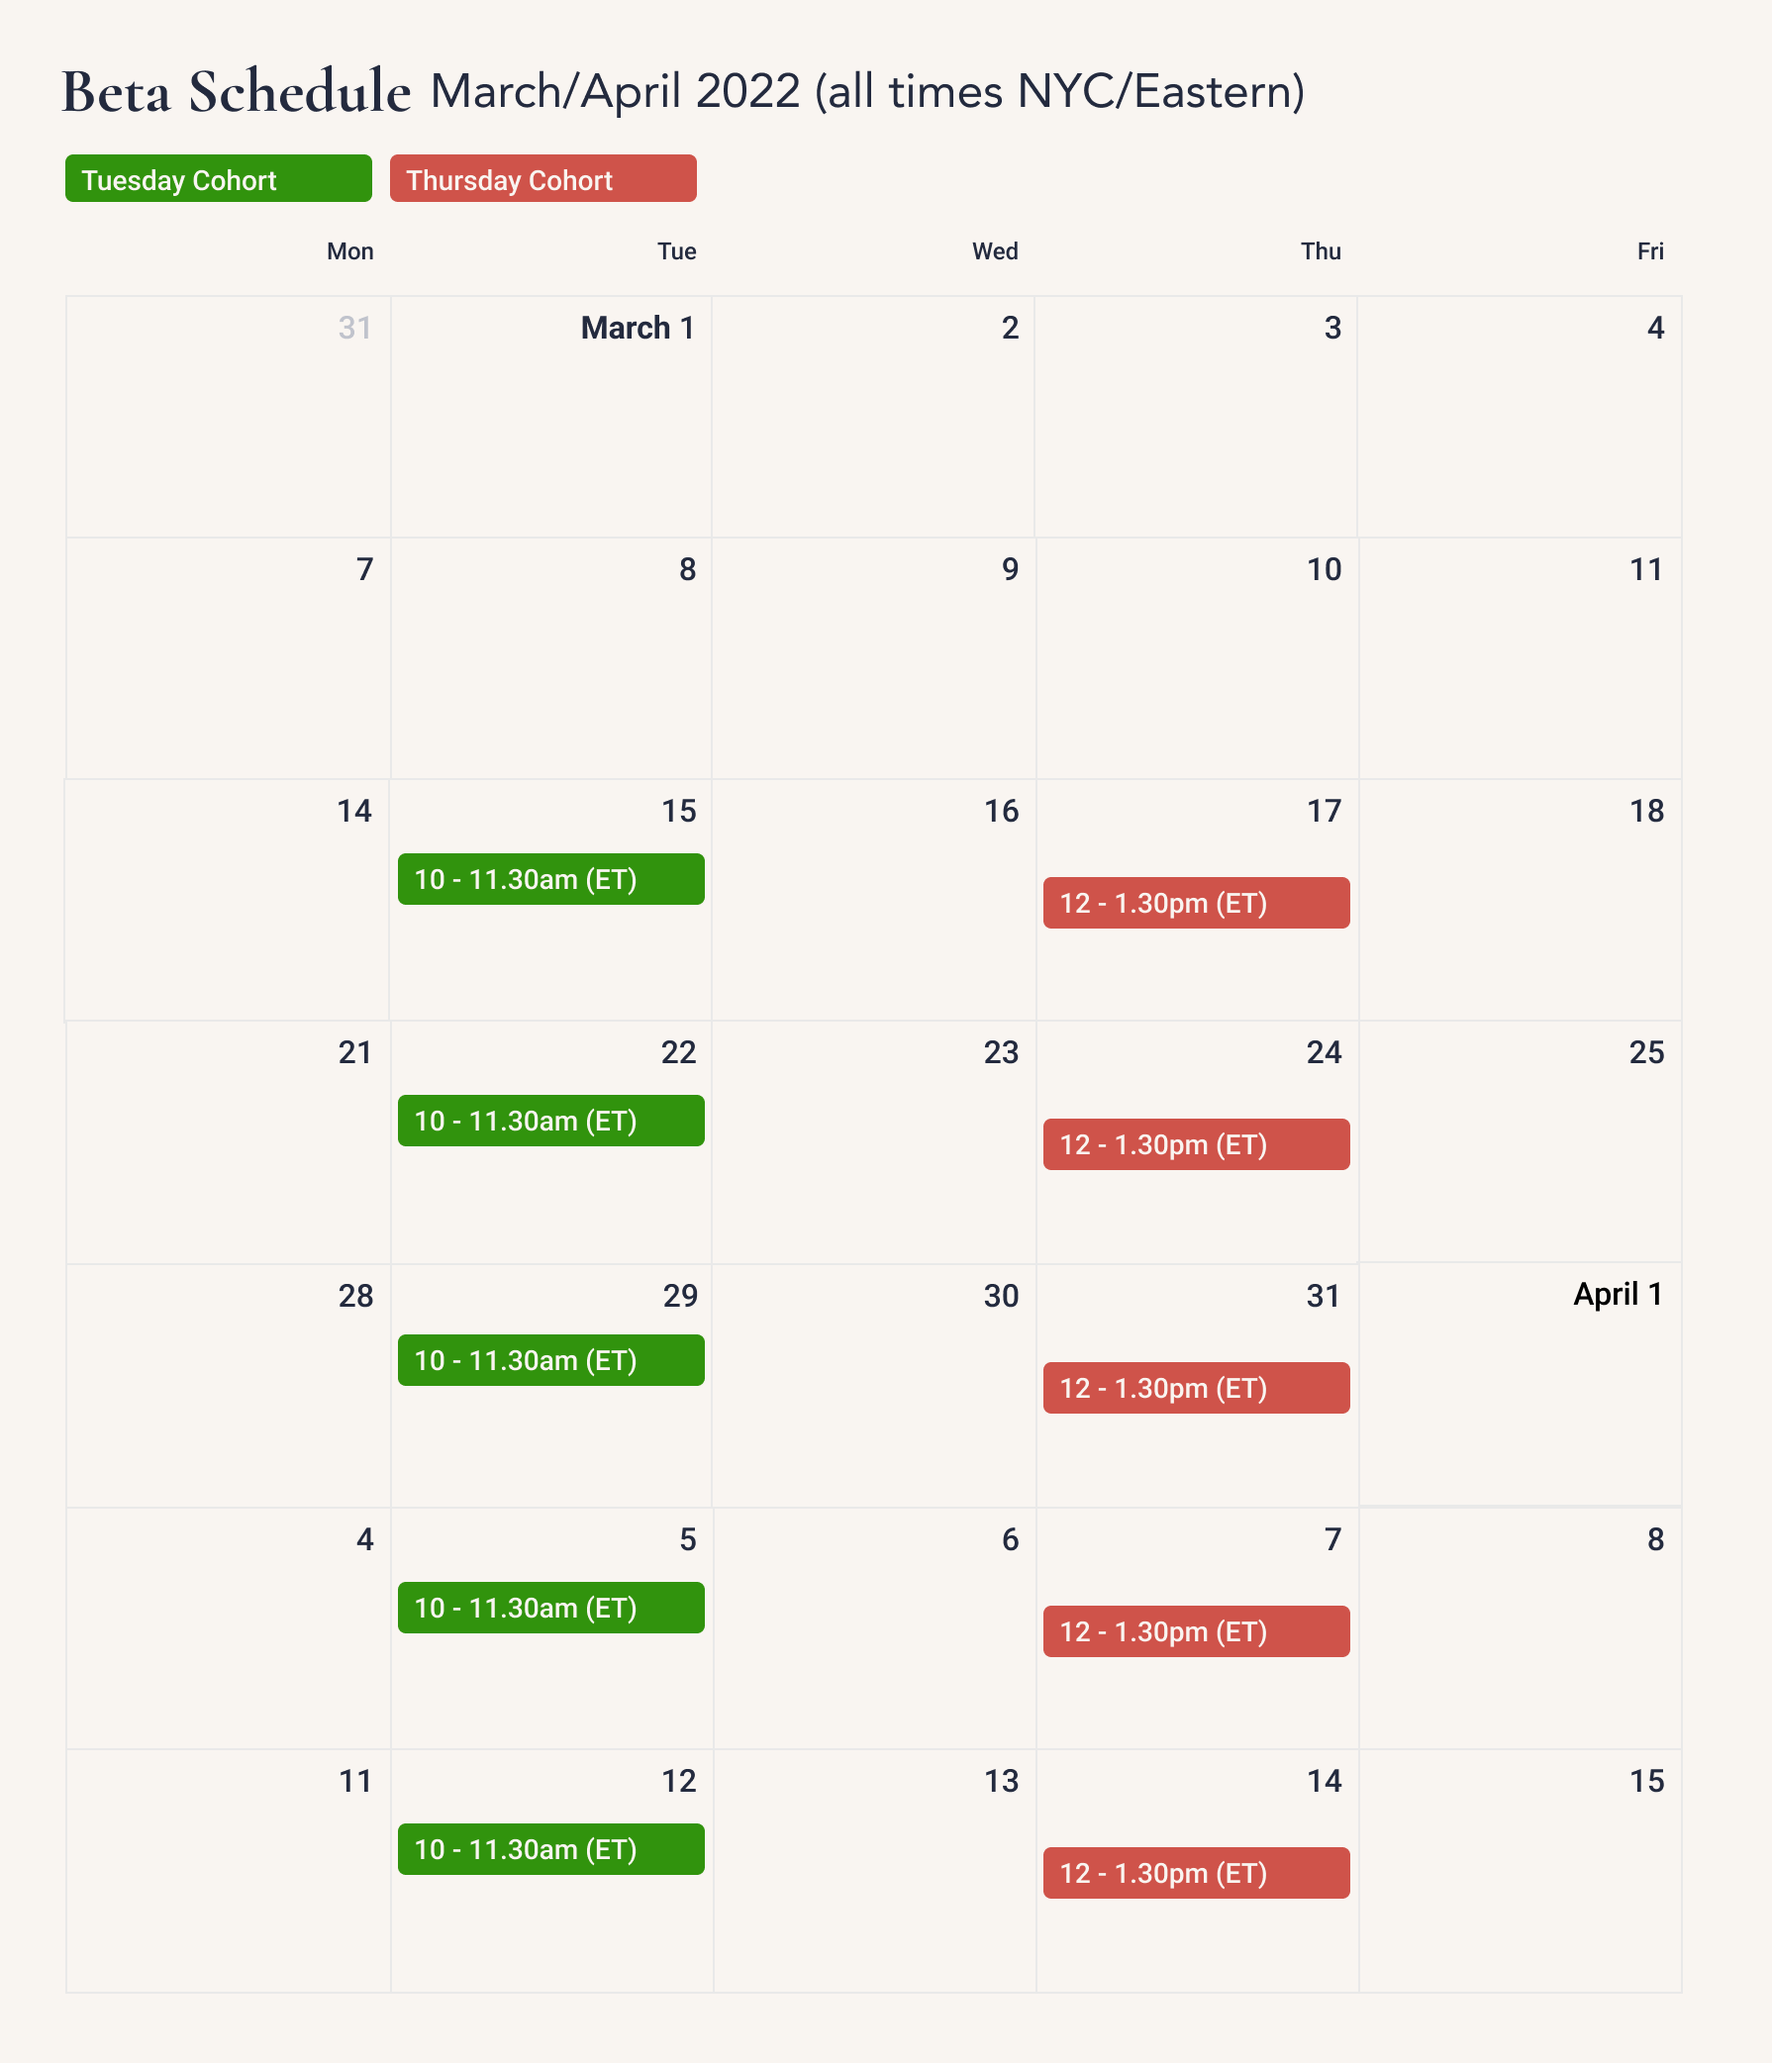
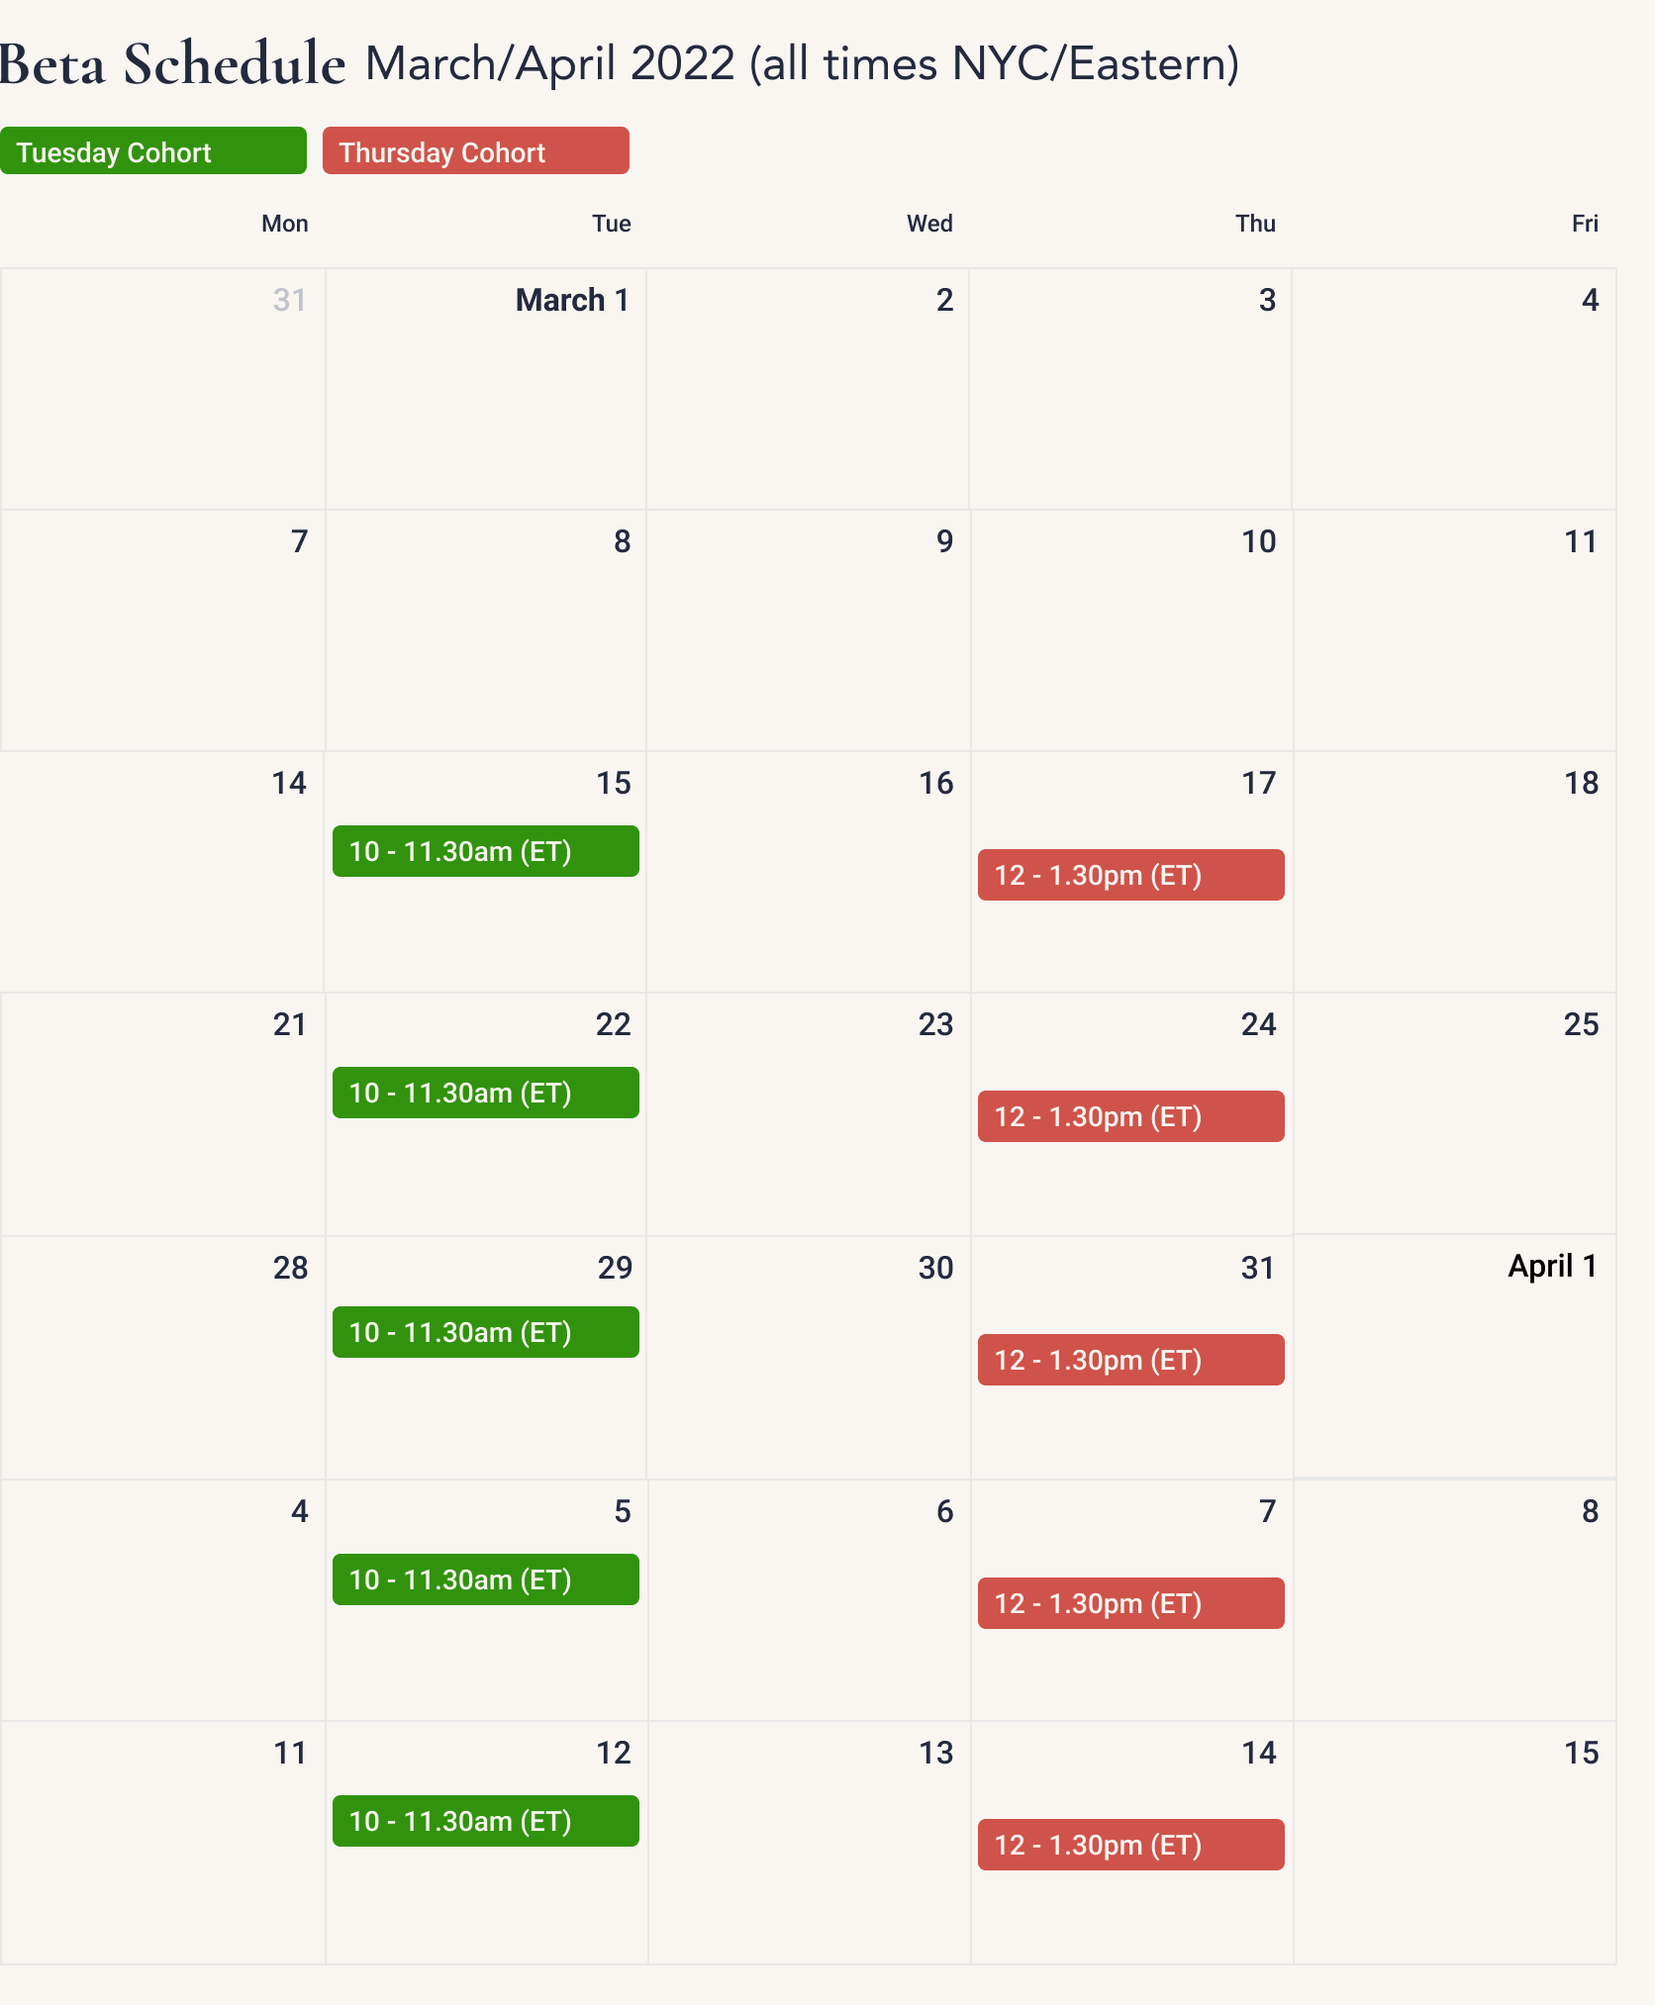
f

diff --git a/course-beta.md b/course-beta.md
@@ -1,5 +1,5 @@
 ---
-title: "Client Management  - Course Beta #2"
+title: "Client Management  - Course Beta"
 layout: page
 ---
 
@@ -28,23 +28,26 @@ The beta course format is a live cohort of 10-15 people meeting for 90 mins / we
 
 ## Course Schedule
 
-I'm launching two beta cohorts to test the material, gain feedback .
+I'm launching two separate cohorts at once that will run in parallel. Please sign up for the one that suits your time best.
 
-Cohort #1: Tuesdays @ 9am ET for 5 weeks [sign up here](https://buy.stripe.com/dR63evfv42xNdmU8wy)
-Cohort #2: Thursdays @ 9am ET for 5 weeks [sign up here](https://buy.stripe.com/bIY16ngz8egv1EcaEH)
+Cohorts begin the week of 14th March:
 
 ![](/images/2022-client-mgmt-beta-schedule.png)
+
+- Cohort #1: Tuesdays @ 10am ET for 5 weeks [sign up here](https://buy.stripe.com/dR63evfv42xNdmU8wy)
+- Cohort #2: Thursdays @ 12pm ET for 5 weeks [sign up here](https://buy.stripe.com/bIY16ngz8egv1EcaEH)
+
+<span class="f5 black-50 i">Checkout provided by Stripe.com</span>
 
 ## This is a beta!
 
 Warning: This is a beta which means it's a work in progress! I'm confident the course will be valuable but it may also be slightly less raw and not as polished as the final course. Throughout the course I'll be sending surveys to gather feedback and I'd really love it if you can fill these out as we go.
 
-
 ## Sign Up Now
 
 Spots are limited and provided on a first come, first served basis. Sign up here:
 
-Cohort #1: Tuesdays @ 9am ET for 5 weeks [sign up here](https://buy.stripe.com/dR63evfv42xNdmU8wy)
-Cohort #2: Thursdays @ 9am ET for 5 weeks [sign up here](https://buy.stripe.com/bIY16ngz8egv1EcaEH)
+- Cohort #1: Tuesdays @ 9am ET for 5 weeks [sign up here](https://buy.stripe.com/dR63evfv42xNdmU8wy)
+- Cohort #2: Thursdays @ 9am ET for 5 weeks [sign up here](https://buy.stripe.com/bIY16ngz8egv1EcaEH)
 
 <span class="f5 black-50 i">Checkout provided by Stripe.com</span>
